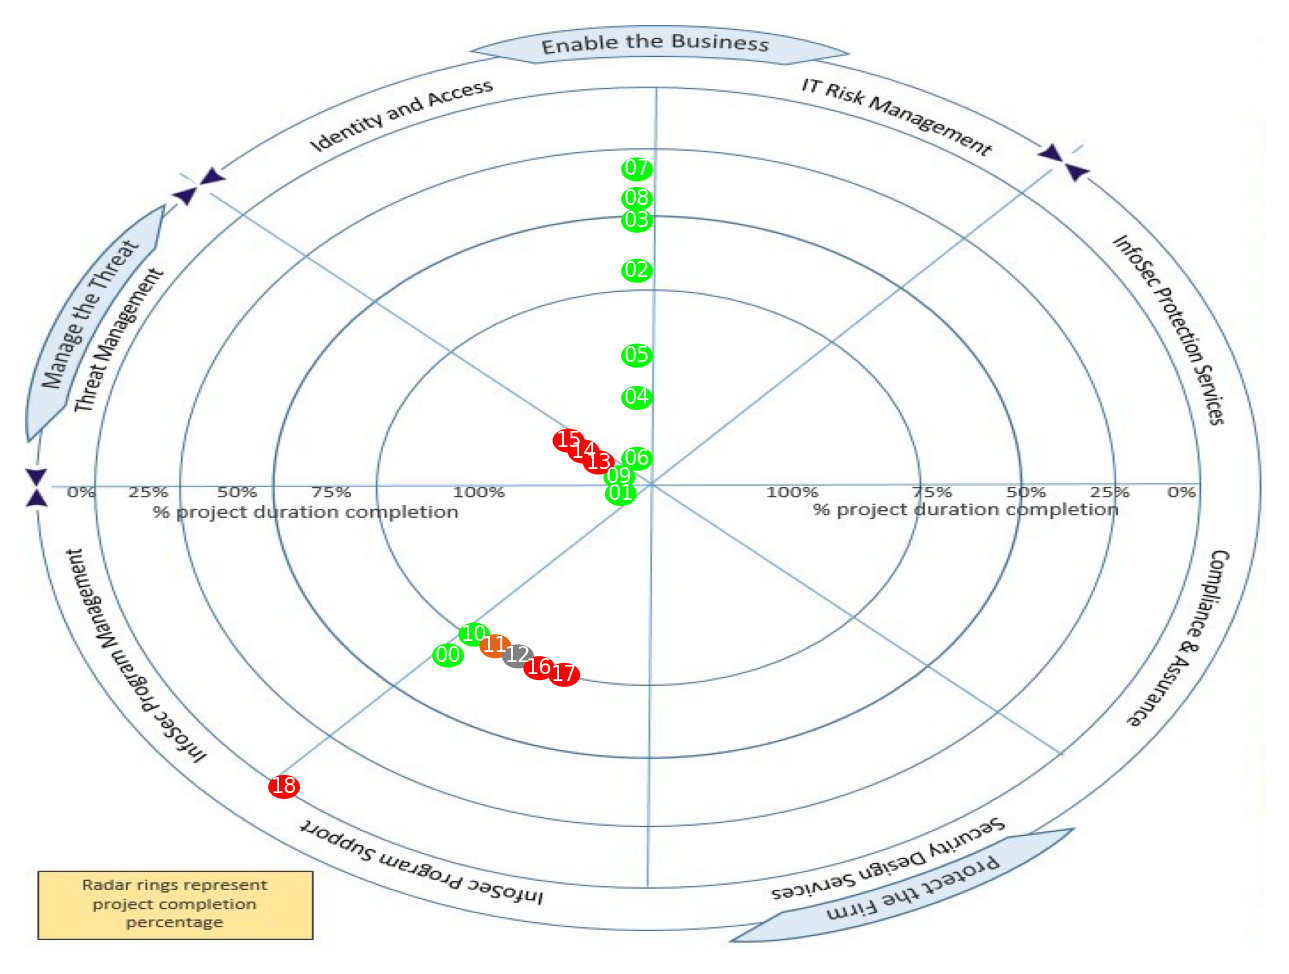
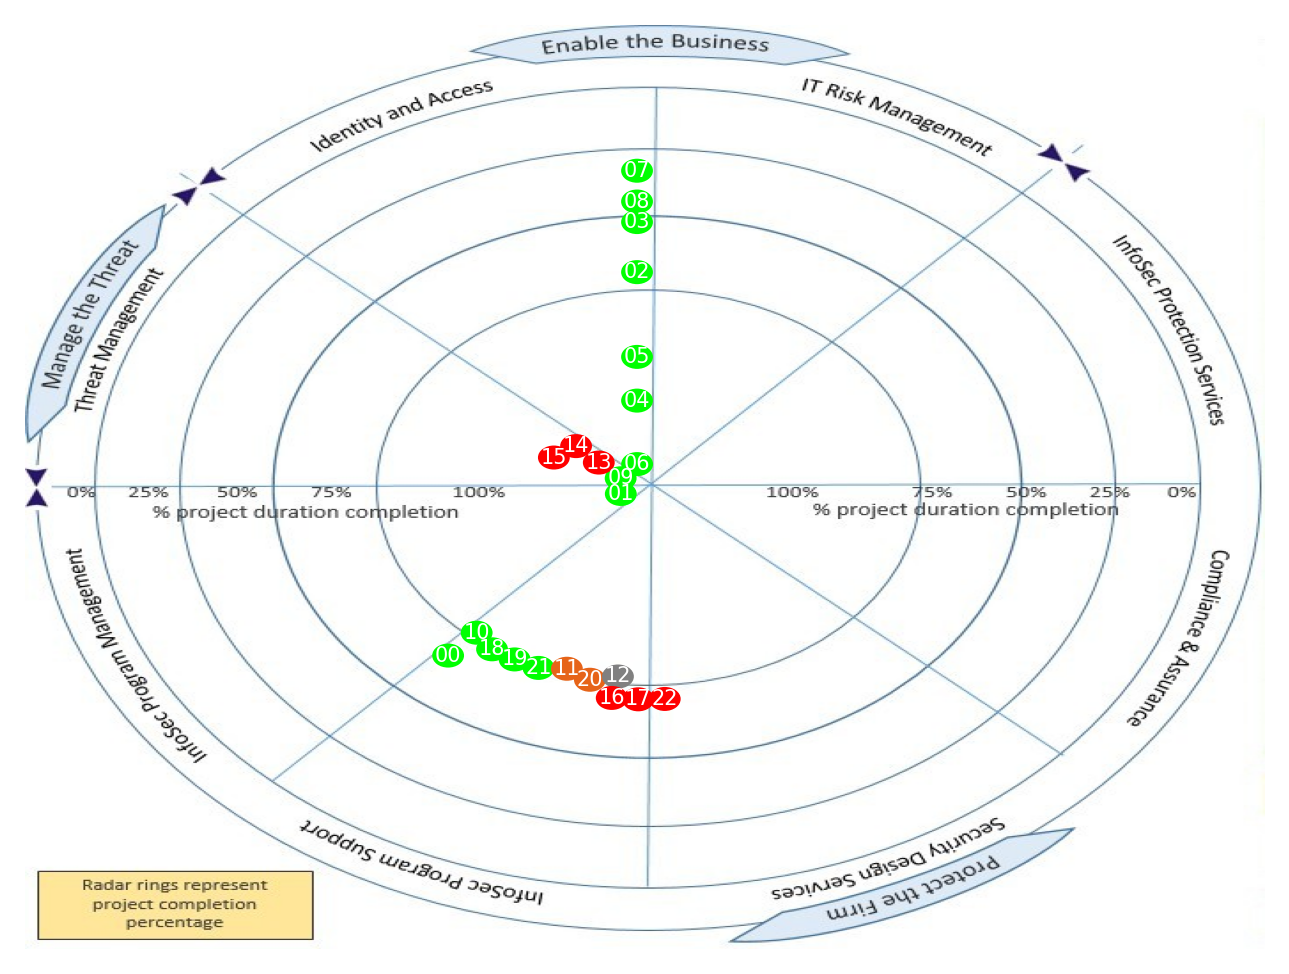
add more data points

diff --git a/main.py b/main.py
@@ -117,43 +117,26 @@ def generate_excel(radar_ids: list[str], names: list[list[str]]) -> None:
 
 def calculate_position(percent: float, positions: list[list[list]], idx: int, angle_bounds: list[float], name: str) -> list[float]:
     overlapping = []
-    # ideal_radius = round(150 * (1 - percent) + 15) if 0.75 <= percent <= 1.0 else round(160 * (0.75 - percent) + 150)
     if 0.75 <= percent <= 1.0:
-        # output = output_start + ((output_end - output_start) / (input_end - input_start)) * (input_percent - input_start)
         out = 0 + ((1 - 0) / (1 - 0.75)) * (percent - 0.75)
         ideal_radius = round(150 * (1 - out) + 15)
 
     elif percent < 0.75:
-        # output = output_start + ((output_end - output_start) / (input_end - input_start)) * (input_percent - input_start)
         out = 0 + ((1 - 0) / (0.75 - 0)) * (percent - 0)
         ideal_radius = round(160 * (1 - out) + 150)
     
     
+    max_points = ((math.pi/4 * ideal_radius) // 14) - 1
 
-    max_points = ((math.pi/4 * ideal_radius) // 20) - 1
-    """
-    for c in positions:
-        for p in c:
-            if abs(p[1] - ideal_radius) < 12 and (angle_bounds[0] - 0.1) <= p[0] <= (angle_bounds[1] + 0.1):
-                overlapping.append(p)
-     """
     for p in positions[idx]:
-        if abs(p[1] - ideal_radius) < 12 and (angle_bounds[0] - 0.1) <= p[0] <= (angle_bounds[1] + 0.1):
+        if abs(p[1] - ideal_radius) < 16 and (angle_bounds[0] - 0.1) <= p[0] <= (angle_bounds[1] + 0.1):
             overlapping.append(p)
     
-    if "c1" in name:     
-        print(f"IDEAL_RADIUS: {ideal_radius}")
-        print(overlapping)
-
     if len(overlapping) == 0:
-        if "Project bcd" in name:
-            print(f"BCD {angle_bounds[0]} + {ideal_radius}")
-
         print(f"No overlapping - name: {name} - r: {ideal_radius} - angle: {angle_bounds[0] + (10/(ideal_radius * 2))}")
         return [ideal_radius, angle_bounds[0] + (10/(ideal_radius * 2))]
 
     if len(overlapping) >= max_points:
-        # print(f"NAME: {name}")
         ideal_radius, angle = calculate_position(percent-0.01, positions, idx, angle_bounds, "recursive_call: " + name)
         
     else:
